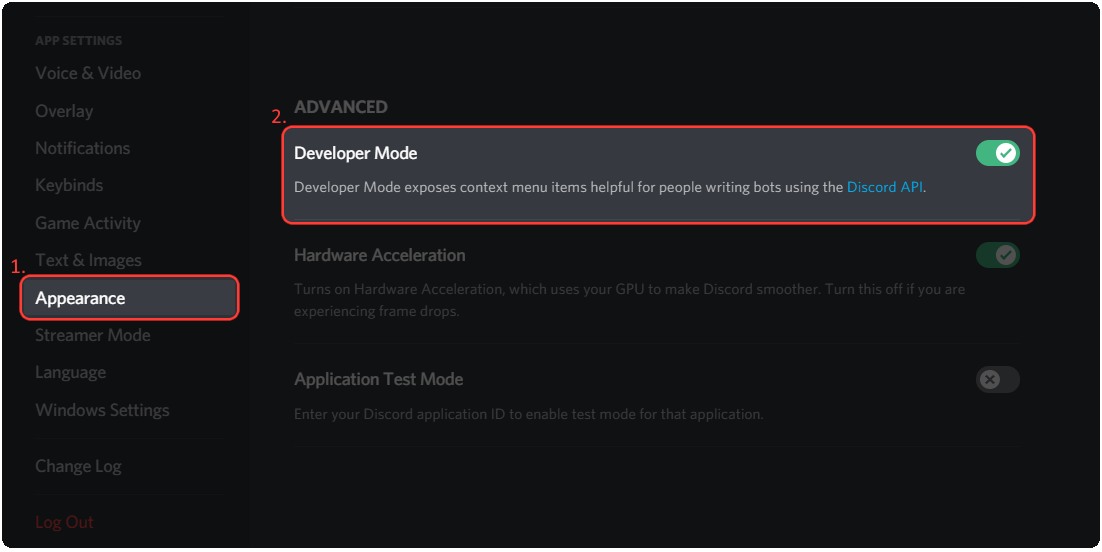
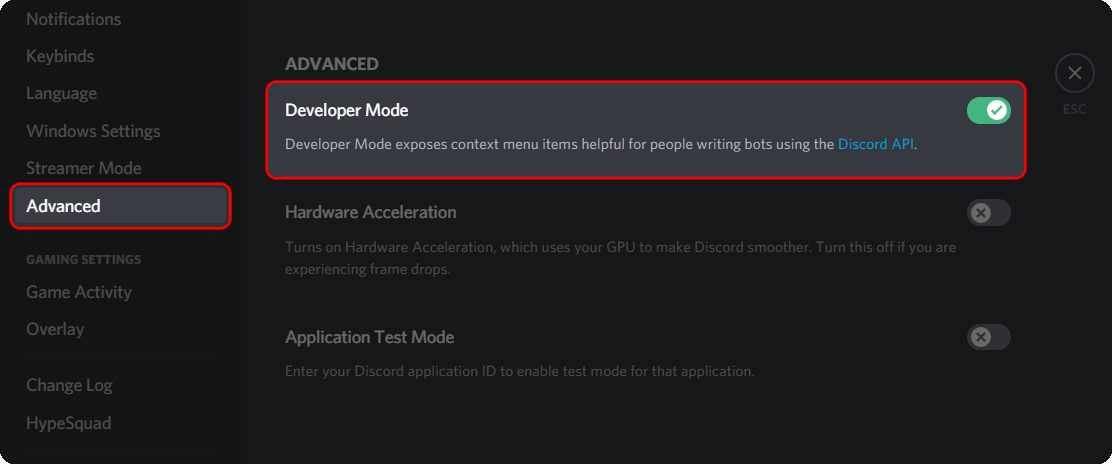
Minor changes and improvements

diff --git a/docs/Server ID.md b/docs/Server ID.md
@@ -22,26 +22,24 @@ Server ID can be useful for Rythm developers to detect issues with the bot. You 
     <ul>
       <li>Head to your user settings. (Click on the ⚙ icon on the lower left of your screen).</li><br/>
       <img src="/docs/img/docs/server-id/user-settings-icon.png" alt="user-settings-icon"/>
-      <li>In the <code>Appearance</code> section, enable <code>Developer Mode</code>.</li><br/>
+      <li>In the <code>Advanced</code> section, enable <code>Developer Mode</code>.</li><br/>
       <img src="/docs/img/docs/server-id/developer-mode.png" alt="developer-mode"/>
     </ul>
   </TabItem>
   <TabItem value = 'ios'>
     <ul>
       <li>Swipe to the right and open your user settings by clicking on your avatar.</li><br/>
-      <img src="/docs/img/docs/server-id/phone-user-settings-icon.png" alt="user-settings-icon"/>
+      <img src="/docs/img/docs/server-id/ios-user-settings-icon.png" alt="ios-user-settings-icon"/>
       <li>Choose the <code>Appearance</code> section then enable <code>Developer Mode</code>.</li><br/>
-      <img src="/docs/img/docs/server-id/ios-appearance.png" alt="ios-appearance"/>
-      <img src="/docs/img/docs/server-id/ios-developer-mode.png" alt="ios-developer-mode"/>
+      <img src="/docs/img/docs/server-id/ios-appearance.png" alt="ios-appearance"/> <img src="/docs/img/docs/server-id/ios-developer-mode.png" alt="ios-developer-mode"/>
     </ul>
   </TabItem>
   <TabItem value = 'android'>
     <ul>
       <li>Swipe to the right and open your user settings by clicking on your avatar.</li><br/>
-      <img src="/docs/img/docs/server-id/phone-user-settings-icon.png" alt="phone-user-settings-icon"/>
-      <li>Choose the <code>Behaviour</code> section then enable <code>Developer Mode</code>.</li><br/>
-      <img src="/docs/img/docs/server-id/android-behaviour.png" alt="android-behaviour"/>
-      <img src="/docs/img/docs/server-id/android-developer-mode.png" alt="android-developer-mode"/>
+      <img src="/docs/img/docs/server-id/android-user-settings-icon.png" alt="android-user-settings-icon"/>
+      <li>Choose the <code>Behavior</code> section then enable <code>Developer Mode</code>.</li>
+      <img src="/docs/img/docs/server-id/android-behavior.png" alt="android-behavior"/> <img src="/docs/img/docs/server-id/android-developer-mode.png" alt="android-developer-mode"/>
     </ul>
   </TabItem>
 </Tabs>
@@ -65,15 +63,13 @@ Server ID can be useful for Rythm developers to detect issues with the bot. You 
   <TabItem value = 'ios'>
     <ul>
       <li>Click on the three dots next to the server's name, swipe up and choose <code>Copy ID</code>.</li><br/>
-      <img src="/docs/img/docs/server-id/phone-three-dots.png" alt="phone-three-dots"/>
-      <img src="/docs/img/docs/server-id/phone-copy-ID.png" alt="phone-copy-ID"/>
+      <img src="/docs/img/docs/server-id/ios-three-dots.png" alt="ios-three-dots"/> <img src="/docs/img/docs/server-id/ios-copy-ID.png" alt="ios-copy-ID"/>
     </ul>
   </TabItem>
   <TabItem value = 'android'>
     <ul>
       <li>Click on the three dots next to the server's name, swipe up and choose <code>Copy ID</code>.</li><br/>
-      <img src="/docs/img/docs/server-id/phone-three-dots.png" alt="phone-three-dots"/>
-      <img src="/docs/img/docs/server-id/phone-copy-ID.png" alt="phone-copy-ID"/>
+      <img src="/docs/img/docs/server-id/android-three-dots.png" alt="android-three-dots"/> <img src="/docs/img/docs/server-id/android-copy-ID.png" alt="android-copy-ID"/>
     </ul>
   </TabItem>
 

diff --git a/docs/Settings.md b/docs/Settings.md
@@ -105,7 +105,7 @@ To setup AutoPlay, provide a playlist using the following command:<br/>
 When enabled, Rythm will send a message to announce when a song has started playing.
 
 :::caution
-The messages go to the channel in which the command was used.
+The messages go to the channel in which the last command was used before it announces.
 :::
 
 To enable or disable song announcements, use the following command:<br/>
